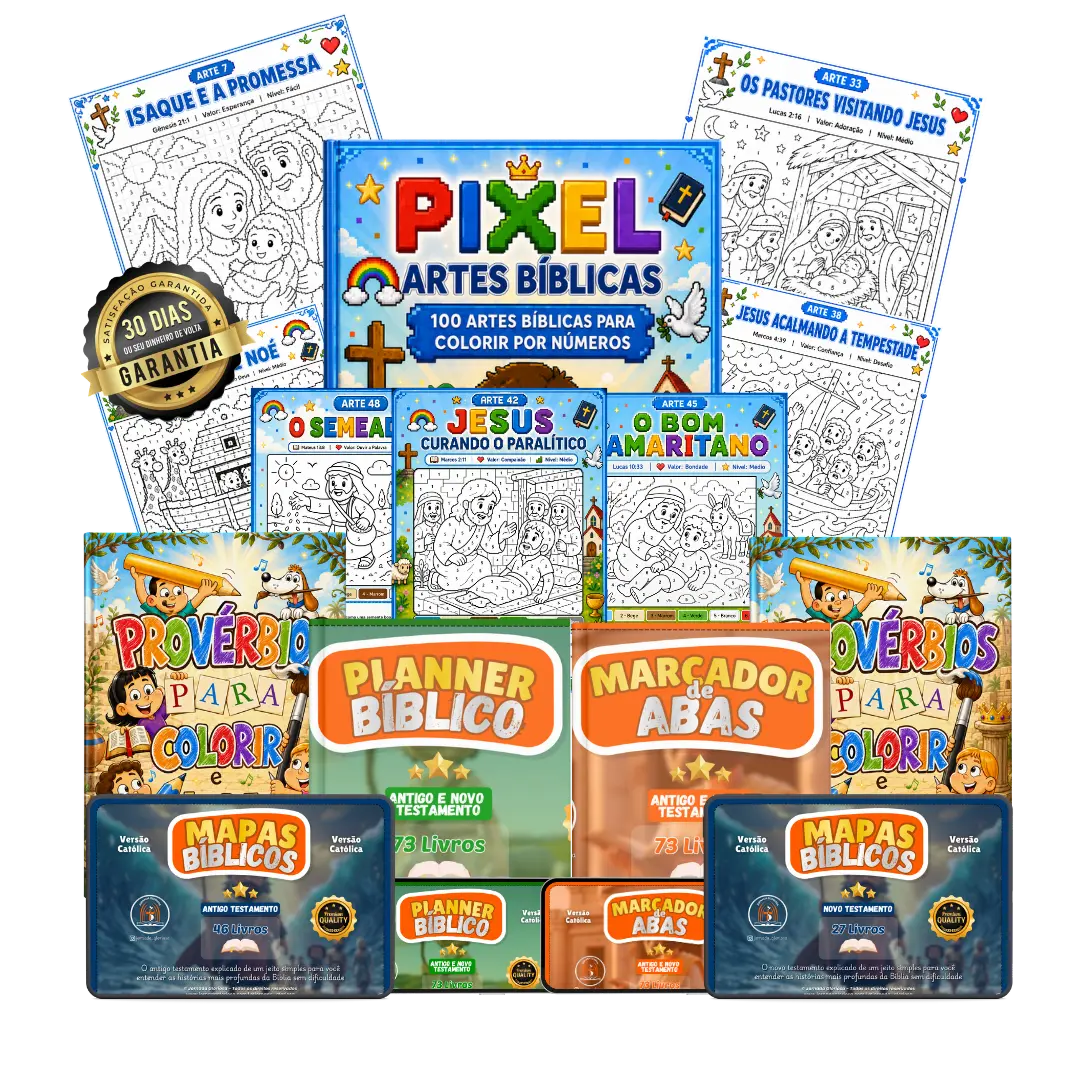
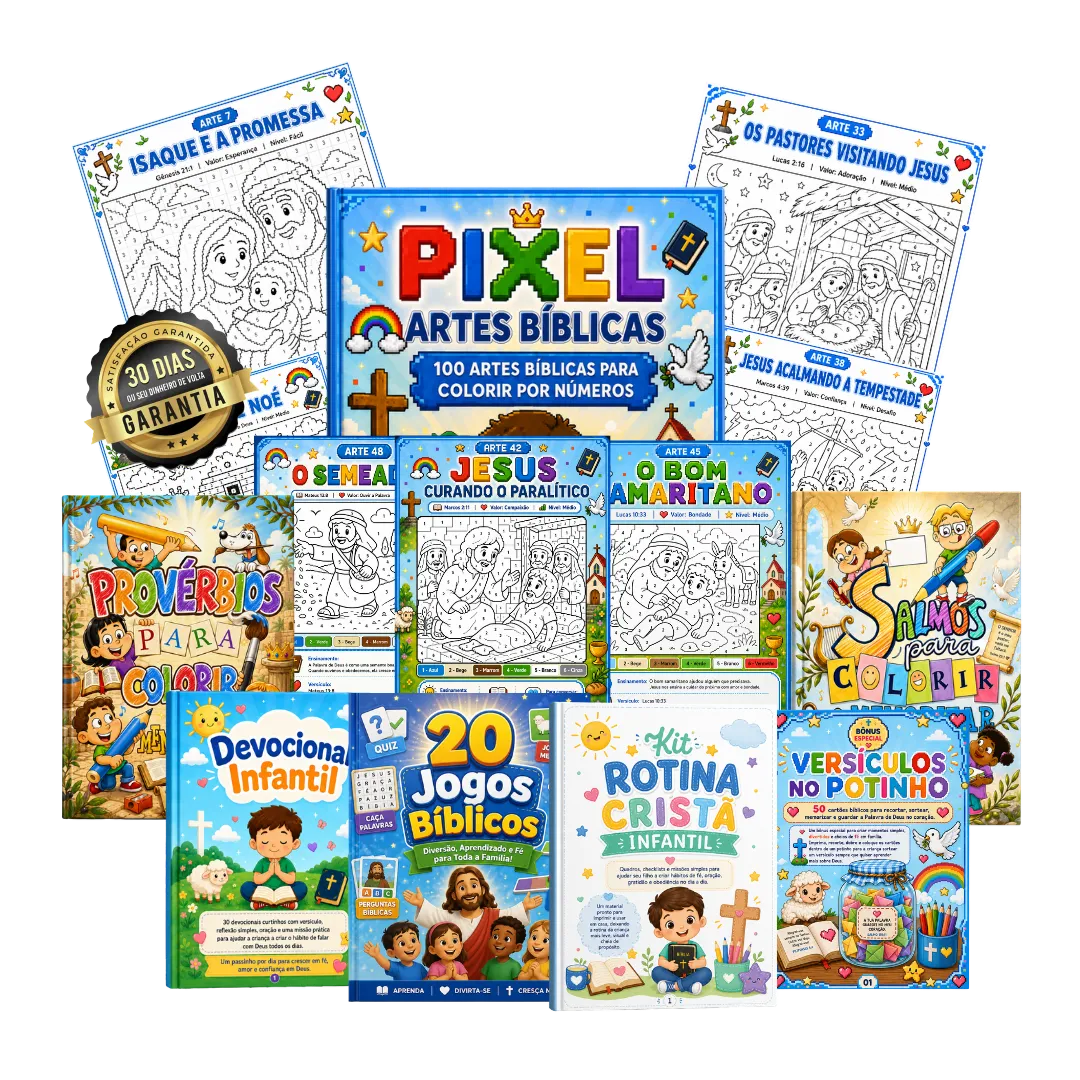
feat: section backgrounds alternados (claro/escuro) seguindo MVT

diff --git a/src/app/globals.css b/src/app/globals.css
@@ -507,7 +507,7 @@ html {
   font-family: 'Nunito', system-ui, -apple-system, Segoe UI, Roboto, Arial, sans-serif;
   padding: 44px 16px 40px;
   text-align: center;
-  background: transparent;
+  background: var(--brand);
 }
 
 .dc-inner {
@@ -524,7 +524,7 @@ html {
   flex-wrap: wrap;
   column-gap: .38em;
   row-gap: .12em;
-  color: var(--brand-deep);
+  color: #FFFFFF;
   margin: 2px 0 16px;
 }
 
@@ -532,7 +532,7 @@ html {
   font-weight: 900;
   font-size: clamp(32px, 8.4vw, 58px);
   line-height: 1;
-  color: var(--accent);
+  color: var(--yellow);
   letter-spacing: -.055em;
   transform: translateY(-1px);
 }
@@ -541,7 +541,7 @@ html {
   font-size: clamp(50px, 11vw, 82px);
   font-weight: 900;
   line-height: 1;
-  color: var(--brand);
+  color: #FFFFFF;
   letter-spacing: -.07em;
 }
 
@@ -551,7 +551,7 @@ html {
   margin-top: 4px;
   font-size: clamp(18px, 4.8vw, 27px);
   font-weight: 900;
-  color: var(--brand-deep);
+  color: #FFFFFF;
   letter-spacing: -.03em;
   line-height: 1.16;
 }
@@ -560,7 +560,7 @@ html {
   position: relative;
   height: 14px;
   border-radius: 999px;
-  background: rgba(8,145,178,.12);
+  background: rgba(255,255,255,.20);
   overflow: hidden;
   margin: 13px auto 0;
   width: min(500px, 92%);
@@ -708,7 +708,7 @@ html {
 /* ===== OFFER PEI ===== */
 .offer-pei-section {
   padding: 48px 16px 44px;
-  background: var(--surface);
+  background: var(--brand-ink);
   font-family: 'Manrope', system-ui, sans-serif;
 }
 
@@ -738,11 +738,11 @@ html {
 }
 
 .offer-pei-head-line {
-  color: var(--brand-ink);
+  color: #FFFFFF;
 }
 
 .offer-pei-head-accent {
-  color: var(--cta-deep);
+  color: var(--brand-light);
   margin-top: 4px;
 }
 
@@ -752,12 +752,12 @@ html {
   font-family: 'Manrope', system-ui, sans-serif;
   font-size: clamp(15px, 2.2vw, 18px);
   line-height: 1.65;
-  color: var(--text-muted);
+  color: rgba(255,255,255,.85);
   font-weight: 500;
 }
 
 .offer-pei-head p strong {
-  color: var(--brand-ink);
+  color: #FFFFFF;
   font-weight: 700;
 }
 
@@ -1109,7 +1109,7 @@ html {
   padding: 48px 0 44px;
   margin-top: 0;
   overflow: hidden;
-  background: var(--brand-subtle);
+  background: var(--brand-deep);
 }
 
 .sp-inner {
@@ -1126,7 +1126,7 @@ html {
   line-height: 1.1;
   font-weight: 900;
   letter-spacing: -.04em;
-  color: var(--brand-deep);
+  color: #FFFFFF;
 }
 
 .sp-carousel {
@@ -1250,7 +1250,7 @@ html {
 /* ===== BENEFITS (animated card) ===== */
 .benefits-section {
   padding: 48px 16px 44px;
-  background: var(--brand-subtle);
+  background: transparent;
   font-family: 'Manrope', system-ui, sans-serif;
 }
 
@@ -1489,7 +1489,7 @@ html {
 /* ===== URGÊNCIA ===== */
 .urg-section {
   padding: 48px 16px 44px;
-  background: var(--cta-surface);
+  background: var(--brand-ink);
   font-family: 'Manrope', system-ui, sans-serif;
 }
 
@@ -1819,7 +1819,7 @@ html {
 /* ===== TUDO QUE VOCÃŠ VAI RECEBER ===== */
 .tqvr-section {
   padding: 48px 16px 44px;
-  background: var(--brand-subtle);
+  background: var(--cta-darkest);
   font-family: 'Manrope', system-ui, sans-serif;
 }
 
@@ -2324,7 +2324,7 @@ html {
 /* ===== COMO Ã‰ O ACESSO ===== */
 .cea-section {
   padding: 48px 16px 44px;
-  background: transparent;
+  background: var(--brand-deep);
   font-family: 'Manrope', system-ui, sans-serif;
 }
 
@@ -2341,7 +2341,7 @@ html {
   line-height: 1.1;
   font-weight: 900;
   letter-spacing: -.04em;
-  color: var(--brand-deep);
+  color: #FFFFFF;
   text-wrap: balance;
 }
 
@@ -2538,7 +2538,7 @@ html {
 /* ===== FAQ ===== */
 .faq-acc-wrap {
   padding: 48px 16px 48px;
-  background: var(--brand-subtle);
+  background: transparent;
   font-family: 'Manrope', system-ui, -apple-system, 'Segoe UI', Roboto, Arial, sans-serif;
 }
 
@@ -2658,8 +2658,7 @@ html {
 /* ===== FOOTER / TOAST ===== */
 .footer-mission {
   padding: 32px 16px;
-  background: var(--bg-alt);
-  border-top: 1px solid rgba(0,0,0,.06);
+  background: var(--brand-ink);
 }
 
 .footer-mission-inner {
@@ -2672,7 +2671,7 @@ html {
   font-family: 'Manrope', system-ui, -apple-system, 'Segoe UI', Roboto, Arial, sans-serif;
   font-size: 14px;
   line-height: 1.7;
-  color: #64748b;
+  color: rgba(255,255,255,.85);
   margin: 0;
 }
 
@@ -2682,9 +2681,10 @@ html {
   font-family: 'Manrope', system-ui, -apple-system, 'Segoe UI', Roboto, Arial, sans-serif;
   font-size: 13px;
   line-height: 1.6;
-  color: var(--text-light);
+  color: rgba(255,255,255,.75);
   font-weight: 500;
-  border-top: 1px solid rgba(0,0,0,.06);
+  background: var(--brand-ink);
+  border-top: 1px solid rgba(255,255,255,.08);
 }
 
 .footer-copyright {
@@ -2700,7 +2700,7 @@ html {
 }
 
 .footer-link {
-  color: var(--brand);
+  color: var(--brand-light);
   text-decoration: none;
   font-size: 12px;
   font-weight: 600;
@@ -2713,7 +2713,7 @@ html {
 }
 
 .footer-sep {
-  color: var(--text-light);
+  color: rgba(255,255,255,.4);
   font-size: 10px;
 }
 